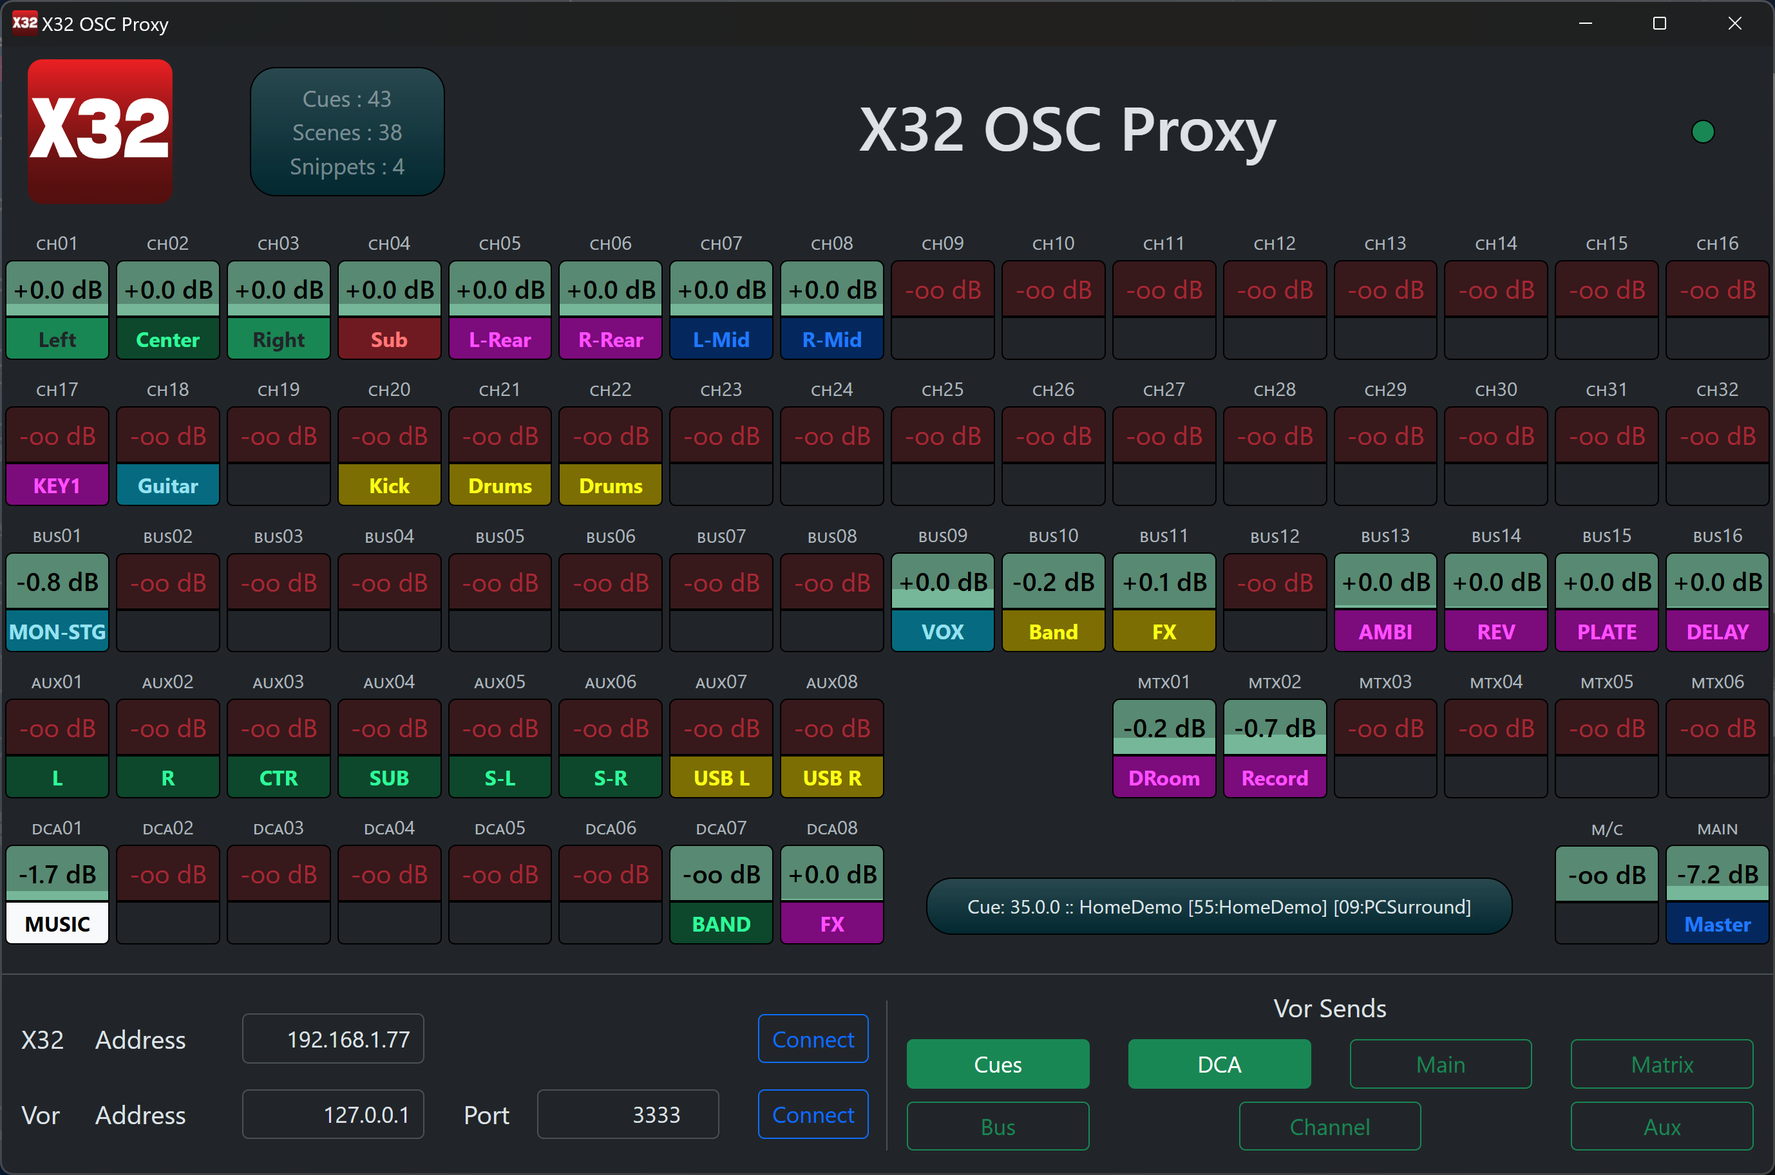
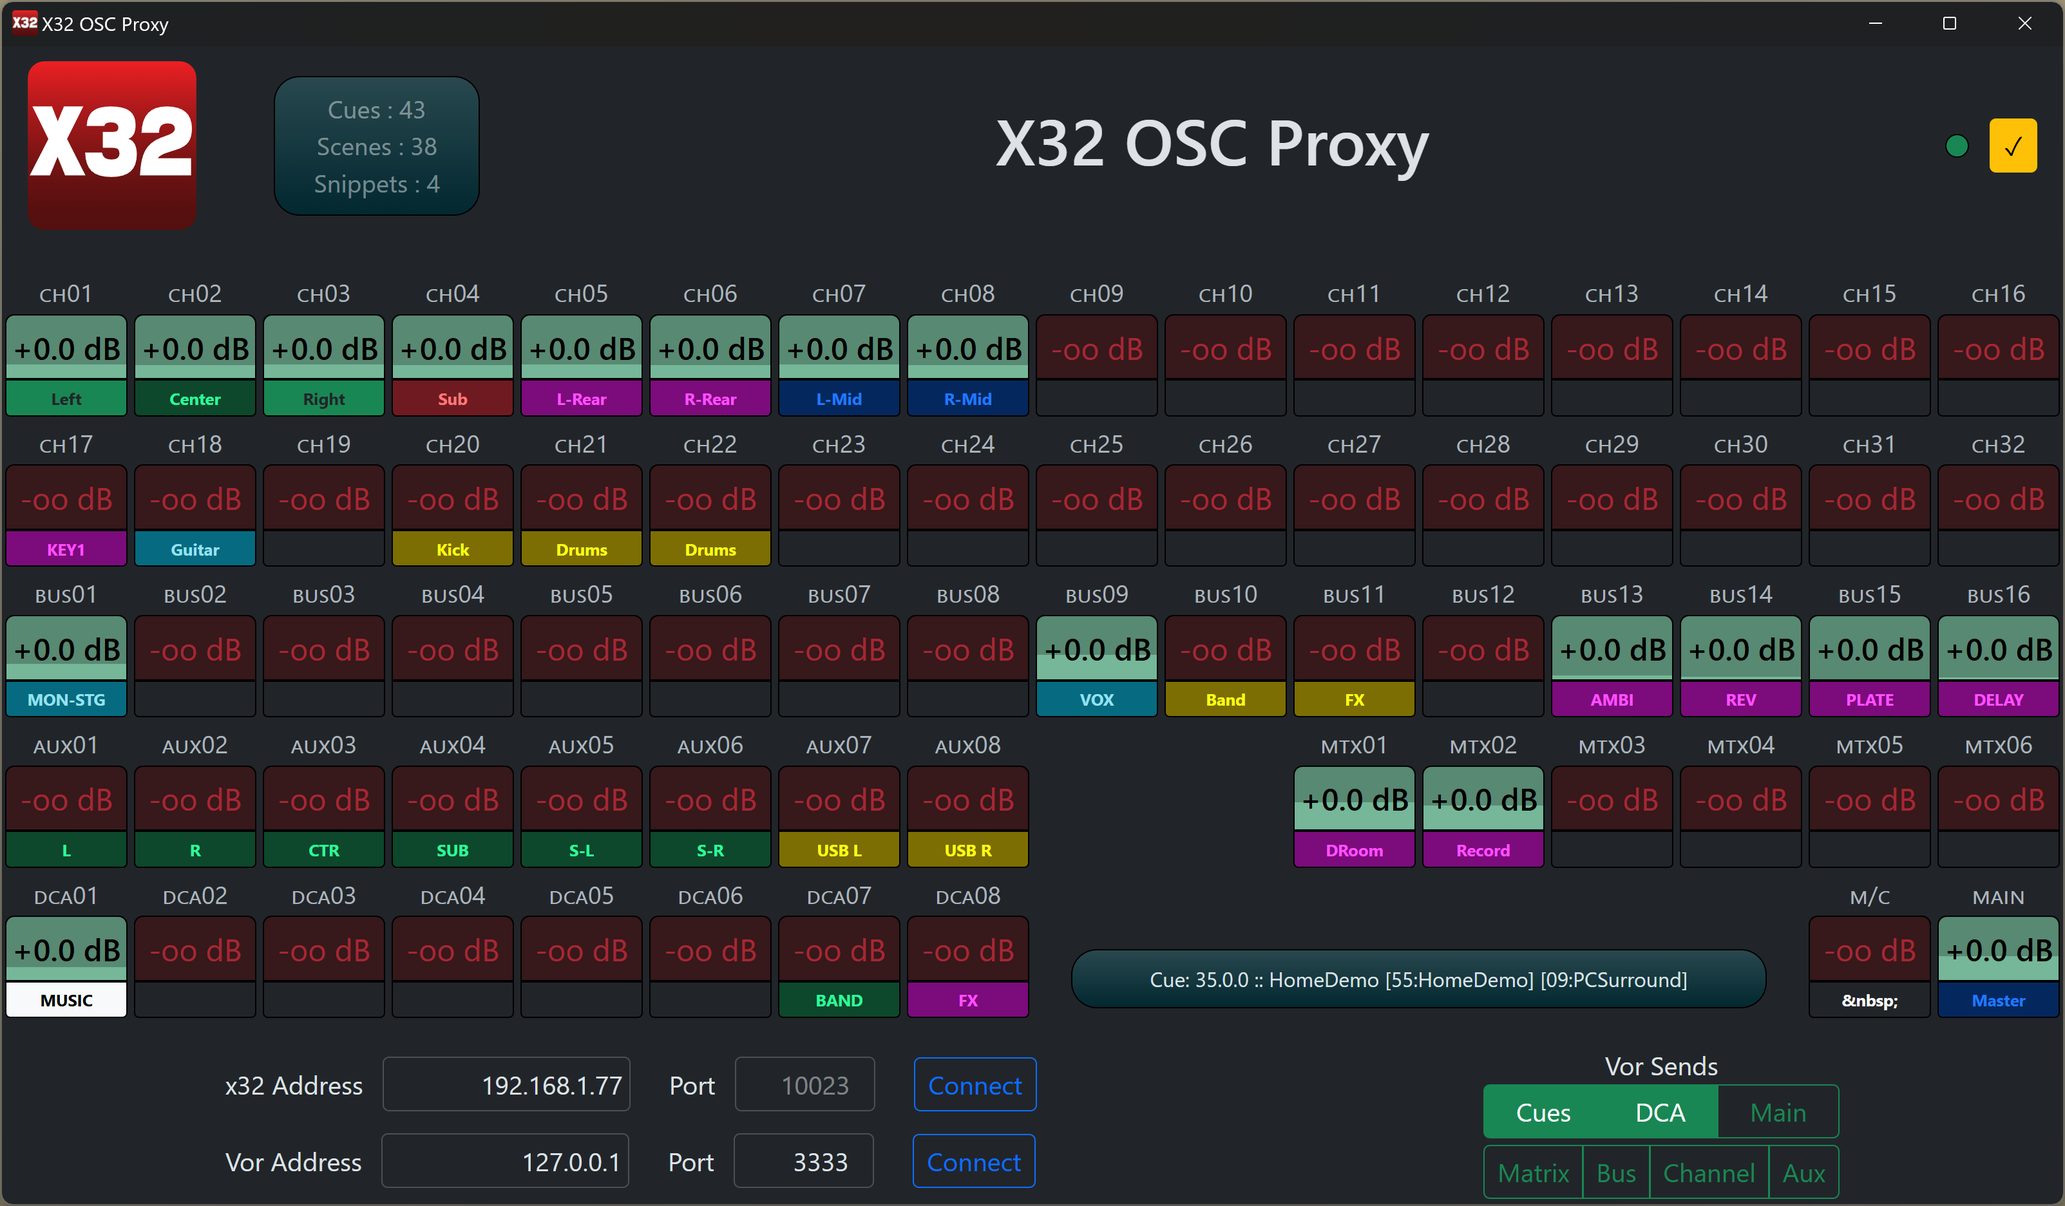
Clean up docs, bump version, fix scaling as best as possible.

diff --git a/src/index.html b/src/index.html
@@ -9,7 +9,7 @@
         <style>
             .fader-name { 
                 text-align: center;
-                font-size: 0.75em;
+                font-size: 1.2vw;
                 font-variant: small-caps;
                 padding-bottom: 2px;
                 color:var(--bs-gray-500);
@@ -29,23 +29,29 @@
             }
             .fader-level {
                 text-align: center;
-                padding-top: .3em;
-                padding-bottom: .3em;
+                padding-top: .4vw;
+                padding-bottom: .4vw;
                 background-color: #492024;
                 color: var(--bs-red);
                 border-top-left-radius: .3em;
                 border-top-right-radius: .3em;
                 border: #000000 1px solid;
+                font-size: 1.5vw;
+                text-wrap: nowrap;
+                /* max-height: 30px; */
             }
             .fader-label { 
                 text-align: center;
-                font-size: 0.8em;
+                font-size: 0.8vw;
                 font-weight: bold;
-                padding: 3px 0px;
+                padding: 3px 3px;
                 border-bottom-left-radius: .3em;
                 border-bottom-right-radius: .3em;
                 border:#000000 1px solid;
-                min-height: 1.65rem;
+                text-overflow: ellipsis;
+                align-content: center;
+                max-width: 6.25vw;
+                overflow: hidden;
             }
             .fader-box[data-is-on="true"] .fader-level {
                 background-color: var(--bs-success-text-emphasis);
@@ -117,34 +123,46 @@
                 color:var(--bs-body-bg);
             }
 
-            #current-cue { font-size: .75em; }
-
+            #current-cue { font-size: 1vw; }
             #status {
-                width: 15px;
-                height: 15px;
+                width: 1.17vw;
+                height: 1.17vw;
                 border-radius: 100%;
                 border:#000000 1px solid;
-                margin-right: 20px;
+                margin-right: 1vw;
             }
             #status[data-last="0"] { background-color: var(--bs-red); }
             #status[data-last="1"] { background-color: var(--bs-yellow); }
             #status[data-last="2"] { background-color: var(--bs-green); }
+
+            #title { font-size: 3.125vw; }
+            #main-icon { width : 8.2vw; }
+            #cue-counts { font-size: 1.2vw; }
+            #title-wrapper { padding-top: .72vw; padding-bottom: .72vw; }
+            #vor, #x32, #vor-sends, #show-audio-label,
+            #vor .btn, #x32 .btn, #vor input, #x32 input, #vor-sends label {
+                font-size: 1.25vw;
+            }
         </style>
     </head>
     <body data-bs-theme="dark">
-        <main class="container-fluid m-0 p-0">
-            <div class="d-flex align-items-center px-3 py-2">
-                <img src="/assets/icon.svg" width="90" class="img-fluid" alt="logo">
-                <div class="text-body-tertiary small border border-black bg-info-subtle bg-gradient py-2 px-4 ms-5 rounded-4 text-center">
+        <main class="container-fluid m-0 p-0 d-flex flex-column vh-100 overflow-hidden">
+            <div id="title-wrapper" class="d-flex align-items-center px-3">
+                <img src="/assets/icon.svg" id="main-icon" class="img-fluid" alt="logo">
+                <div id="cue-counts" title="Stack size on console - this data may lag by up to 5 minutes. You can click connect again to force refresh" class="text-body-tertiary small border border-black bg-info-subtle bg-gradient py-2 px-4 ms-5 rounded-4 text-center">
                     <div>Cues : <span id="cue-count"></span></div>
                     <div>Scenes : <span id="scene-count"></span></div>
                     <div>Snippets : <span id="snippet-count"></span></div>
                 </div>
-                <h1 class="flex-grow-1 text-center">X32 OSC Proxy</h1>
-                <div id="status" data-last="2"></div>
+                <h1 class="flex-grow-1 text-center" id="title">X32 OSC Proxy</h1>
+                <div title="Time since last X32 packet :: Green &lt; 5s, Yellow : &lt; 30s, Red : &gt; 30s" id="status" data-last="2"></div>
+                <div>
+                    <input type="checkbox" class="btn-check" checked id="show-audio">
+                    <label title="Toggle meter overlay - this setting is not saved" class="btn-sm btn btn-outline-warning" id="show-audio-label" for="show-audio">✓</label>
+                </div>
             </div>
 
-            <table class="w-100"><tbody>
+            <div class="flex-grow-1 align-content-center"><table class="w-100"><tbody>
                 <tr>
                     <td class="fader-box" id="chan-1" data-color="Off" data-is-on="false"><div class="d-inline-flex flex-column"><div class="fader-name">ch01</div><div class="fader-level-parent"><div class="fader-level">--</div><div class="fader-level-mask"></div></div><div class="fader-label"></div></div></td>
                     <td class="fader-box" id="chan-2" data-color="Off" data-is-on="false"><div class="d-inline-flex flex-column"><div class="fader-name">ch02</div><div class="fader-level-parent"><div class="fader-level">--</div><div class="fader-level-mask"></div></div><div class="fader-label"></div></div></td>
@@ -227,77 +245,63 @@
                     <td class="fader-box" id="dca-7" data-color="Off" data-is-on="false"><div class="d-inline-flex flex-column"><div class="fader-name">dca07</div><div class="fader-level-parent"><div class="fader-level">--</div><div class="fader-level-mask"></div></div><div class="fader-label"></div></div></td>
                     <td class="fader-box" id="dca-8" data-color="Off" data-is-on="false"><div class="d-inline-flex flex-column"><div class="fader-name">dca08</div><div class="fader-level-parent"><div class="fader-level">--</div><div class="fader-level-mask"></div></div><div class="fader-label"></div></div></td>
 
-                    <td colspan="6" class="align-bottom px-4 pb-2"><div id="current-cue" class="border border-black bg-info-subtle bg-gradient w-100 p-2 rounded-4 text-center"></div></td>
+                    <td colspan="6" class="align-bottom px-4 pb-2"><div id="current-cue" class="border border-black bg-info-subtle bg-gradient w-100 p-2 rounded-4 text-center" title="Current cue - cue name data may lag by up to 5 minutes. You can click connect again to force refresh"></div></td>
 
                     <td class="fader-box" id="main-2" data-color="Off" data-is-on="false"><div class="d-inline-flex flex-column"><div class="fader-name">m/c</div><div class="fader-level-parent"><div class="fader-level">--</div><div class="fader-level-mask"></div></div><div class="fader-label"></div></div></td>
                     <td class="fader-box" id="main-1" data-color="Off" data-is-on="false"><div class="d-inline-flex flex-column"><div class="fader-name">main</div><div class="fader-level-parent"><div class="fader-level">--</div><div class="fader-level-mask"></div></div><div class="fader-label"></div></div></td>
                 </tr>
-            </tbody></table>
+            </tbody></table></div>
 
-            <div class="container-fluid">
-            <div class="row border-top mt-3 pt-3">
-                <div class="col-6 border-end">
-                    <form id="x32">
-                    <div class="row my-2 align-items-center">
-                        <div class="col-1">X32</div>
-                        <div class="col-2">Address</div>
-                        <div class="col-3">
-                            <input id="x32-address" autocomplete="off" placeholder="xxx.xxx.xxx.xxx" type="text" minlength="7" maxlength="15" size="15" pattern="^((\d|[1-9]\d|1\d\d|2[0-4]\d|25[0-5])\.){3}(\d|[1-9]\d|1\d\d|2[0-4]\d|25[0-5])$" class="form-control-sm text-end form-control">
+            <div class="container-fluid align-content-end flex-grow-0">
+            <div class="row justify-content-around pb-1">
+                <div class="col-auto d-flex flex-column justify-content-around">
+                    <form id="x32" class="row align-items-center">
+                        <label for="x32-address" class="col-auto pe-0">x32 Address</label>
+                        <div class="col-auto">
+                            <input id="x32-address" title="IP address in decimal-dot notation" autocomplete="off" placeholder="xxx.xxx.xxx.xxx" type="text" minlength="7" maxlength="15" size="15" pattern="^((\d|[1-9]\d|1\d\d|2[0-4]\d|25[0-5])\.){3}(\d|[1-9]\d|1\d\d|2[0-4]\d|25[0-5])$" class="px-1 form-control-sm text-end form-control">
                         </div>
-                        <div class="offset-4 col-1">
-                            <button type="submit" id="x32-connect" class="btn-sm btn btn-outline-primary">Connect</button>
+                        <label for="x32-port" class="col-auto pe-0">Port</label>
+                        <div class="col-auto">
+                            <input id="x32-port" autocomplete="off" type="number" value="10023" min="1024" max="65535" readonly class="text-body-tertiary disabled form-control-sm text-end form-control px-0">
                         </div>
-                    </div>
+                        <div class="col-auto ">
+                            <button type="submit" title="Connect or reconnect to console - resets all data" id="x32-connect" class="btn-sm btn btn-outline-primary">Connect</button>
+                        </div>
                     </form>
-                    <form id="vor">
-                    <div class="row mt-3 align-items-center">
-                        <div class="col-1">Vor</div>
-                        <div class="col-2">Address</div>
-                        <div class="col-3">
-                            <input id="vor-address" autocomplete="off" placeholder="xxx.xxx.xxx.xxx" type="text" minlength="7" maxlength="15" size="15" pattern="^((\d|[1-9]\d|1\d\d|2[0-4]\d|25[0-5])\.){3}(\d|[1-9]\d|1\d\d|2[0-4]\d|25[0-5])$" class="form-control-sm text-end form-control">
+                    <form id="vor" class="row align-items-center">
+                        <label for="vor-address" class="col-auto pe-0">Vor Address</label>
+                        <div class="col-auto">
+                            <input id="vor-address" title="IP address in decimal-dot notation" autocomplete="off" placeholder="xxx.xxx.xxx.xxx" type="text" minlength="7" maxlength="15" size="15" pattern="^((\d|[1-9]\d|1\d\d|2[0-4]\d|25[0-5])\.){3}(\d|[1-9]\d|1\d\d|2[0-4]\d|25[0-5])$" class="px-1 form-control-sm text-end form-control">
                         </div>
-                        <div class="col-1">Port</div>
-                        <div class="col-3">
-                            <input id="vor-port" autocomplete="off" type="number" min="1024" max="65535" class="form-control-sm text-end form-control">
+                        <label for="vor-port" class="col-auto pe-0">Port</label>
+                        <div class="col-auto">
+                            <input id="vor-port" title="Port number, 1024-655235" autocomplete="off" type="number" min="1024" max="65535" class="form-control-sm text-end form-control px-0">
                         </div>
-                        <div class="col-1">
-                            <button type="submit" id="vor-connect" class="btn-sm btn btn-outline-primary">Connect</button>
+                        <div class="col-auto ">
+                            <button type="submit" title="Connect to Vor instance" id="vor-connect" class="btn-sm btn btn-outline-primary">Connect</button>
                         </div>
-                    </div>
                     </form>
                 </div>
-                <div class="col-6">
-                    <div class="row justify-content-between gy-2">
-                        <div class="col-12 pt-0 mt-0 text-center">Vor Sends</div>
-                        <div class="col-3">
-                            <input type="checkbox" class="btn-check" id="send-cue">
-                            <label class="btn-sm w-100 btn btn-outline-success" for="send-cue">Cues</label>
-                        </div>
-                        <div class="col-3">
-                            <input type="checkbox" class="btn-check" id="send-dca">
-                            <label class="btn-sm w-100 btn btn-outline-success" for="send-dca">DCA</label>
-                        </div>
-                        <div class="col-3">
-                            <input type="checkbox" class="btn-check" id="send-main">
-                            <label class="btn-sm w-100 btn btn-outline-success" for="send-main">Main</label>
-                        </div>
-                        <div class="col-3">
-                            <input type="checkbox" class="btn-check" id="send-matrix">
-                            <label class="btn-sm w-100 btn btn-outline-success" for="send-matrix">Matrix</label>
-                        </div>
-                        <div class="col-3">
-                            <input type="checkbox" class="btn-check" id="send-bus">
-                            <label class="btn-sm w-100 btn btn-outline-success" for="send-bus">Bus</label>
-                        </div>
-                        <div class="col-3">
-                            <input type="checkbox" class="btn-check" id="send-channel">
-                            <label class="btn-sm w-100 btn btn-outline-success" for="send-channel">Channel</label>
-                        </div>
-                        <div class="col-3">
-                            <input type="checkbox" class="btn-check" id="send-aux">
-                            <label class="btn-sm w-100 btn btn-outline-success" for="send-aux">Aux</label>
-                        </div>
-                    </div>
+                <div class="col-auto" id="vor-sends">
+                    <div class="row text-center"><div class="col-12">Vor Sends</div></div>
+                    <div class="row pb-1"><div class="btn-group">
+                        <input type="checkbox" class="btn-check" id="send-cue">
+                        <label title="Send '/currentCue [string]'" class="btn-sm btn btn-outline-success" for="send-cue">Cues</label>
+                        <input type="checkbox" class="btn-check" id="send-dca">
+                        <label title="Send '/dca[1..8] [string]'" class="btn-sm btn btn-outline-success" for="send-dca">DCA</label>
+                        <input type="checkbox" class="btn-check" id="send-main">
+                        <label title="Send '/main[1..2] [string]'" class="btn-sm btn btn-outline-success" for="send-main">Main</label>
+                    </div></div>
+                    <div class="row"><div class="btn-group">
+                        <input type="checkbox" class="btn-check" id="send-matrix">
+                        <label title="Send '/matrix[1..6] [string]'" class="btn-sm btn btn-outline-success" for="send-matrix">Matrix</label>
+                        <input type="checkbox" class="btn-check" id="send-bus">
+                        <label title="Send '/bus[1..16] [string]'" class="btn-sm btn btn-outline-success" for="send-bus">Bus</label>
+                        <input type="checkbox" class="btn-check" id="send-channel">
+                        <label title="Send '/channel[1..24] [string]'" class="btn-sm btn btn-outline-success" for="send-channel">Channel</label>
+                        <input type="checkbox" class="btn-check" id="send-aux">
+                        <label title="Send '/auxin[1..8] [string]'" class="btn-sm btn btn-outline-success" for="send-aux">Aux</label>
+                    </div></div>
                 </div>
             </div>
             </div>

diff --git a/src/main.js b/src/main.js
@@ -23,6 +23,8 @@
 const { invoke } = window.__TAURI__.core;
 const { listen } = window.__TAURI__.event;
 
+let show_meters = true;
+
 window.addEventListener("DOMContentLoaded", () => {
     populate_settings()
 
@@ -40,6 +42,10 @@ window.addEventListener("DOMContentLoaded", () => {
     document.getElementById('send-bus').addEventListener('change', (e) => { set_flag('bus') })
     document.getElementById('send-aux').addEventListener('change', (e) => { set_flag('aux') })
     document.getElementById('send-channel').addEventListener('change', (e) => { set_flag('channel') })
+
+    document.getElementById('show-audio').addEventListener('change', (e) => {
+        show_meters = e.target.checked;
+    })
 });
 
 async function set_flag(flag) {
@@ -85,7 +91,9 @@ const meters_0 = await listen('meter-update-0', (event) => {
     // 49-64 - bus
     // 65-70 - mtx
     if ( Array.isArray(event.payload) ) {
-        for (const [i, v] of event.payload.entries()) {
+        let this_data = show_meters ? event.payload : Array(71).fill(1)
+
+        for (const [i, v] of this_data.entries()) {
             if ( i == 0 || ( i >= 41 && i <= 48 )) { continue }
 
             // check against last.
@@ -117,7 +125,9 @@ const meters_5 = await listen('meter-update-5', (event) => {
     // 25-26 - main l/r
     // 27 - mono
     if ( Array.isArray(event.payload) ) {
-        for (const [i, v] of event.payload.entries()) {
+        let this_data = show_meters ? event.payload : Array(28).fill(1)
+
+        for (const [i, v] of this_data.entries()) {
             if ( i <= 16 || i == 26 ) { continue }
 
             // check against last.
@@ -188,7 +198,7 @@ function update_fader(name, data) {
 function update_fader_by_id(id, data) {
     const element = document.getElementById(id);
     if (element !== null) {
-        element.querySelector('.fader-label').textContent = data.label
+        element.querySelector('.fader-label').textContent = data.label === "" ? "&nbsp;" : data.label
         element.querySelector('.fader-level').textContent = data.level
         element.setAttribute("data-is-on", data.is_on ? "true" : "false")
         element.setAttribute("data-color", data.color)

diff --git a/src-tauri/src/lib.rs b/src-tauri/src/lib.rs
@@ -119,8 +119,8 @@ pub fn run() {
                         let time = handle.state::<Mutex<SystemTime>>();
                         let elapsed = time.lock().expect("lock failed").elapsed().expect("bad clock");
                         handle.emit("packet_status", match elapsed.as_secs() {
-                            0..7 => 2_usize,
-                            7..=30 => 1_usize,
+                            0..6 => 2_usize,
+                            6..=30 => 1_usize,
                             _ => 0_usize
                         }).unwrap();
                     }

diff --git a/README.md b/README.md
@@ -45,7 +45,31 @@ Messages are sent as a single OSC Message for cue, and a OSC Bundle for each of 
 
 ## In Action
 
-![animated webp](screenshot/animated.webp)
+![animated webp](screenshot/animated.gif)
+
+_Possible Gotcha:_ Note the audio level displayed is a __visualization__ based on a simple exponential expression of the linear audio level - specifically `f(x) = ( x ^ 0.35 ) / 100` - I tried several methods to convert it to decibels and then a percentage, and was unhappy with the visualization, particularly on low level signals - this method amplifies movement on the low end of the scale, pretty much the opposite of how our ears work.  All of that said, this is an effective signal visualization, and should not be interpreted as a volume level.
+
+## Vor Configuration
+
+Add a [Custom OSC](https://docs.getvor.app/vor/settings/connections/show-control/custom-osc) connection of type UDP.  Note that the configuration shown is from Vor version 1.6 or so, some options may look different.
+
+![Options Window](screenshot/vor_connect.png)
+
+By default, we uses port 3333, but you can use whatever you want.
+
+### Add VOR addresses
+
+Add any of the available address endpoints. Note that the fader index is not zero padded like it is on the X32 end - so `/channel/1`, not `/channel/01`
+
+### Setup Layout
+
+Example shown for current cue - all other endpoints follow the same pattern.
+
+![vor layout](screenshot/vor_cue.png)
+
+## Console Coverage
+
+Both the X32 and M32 should work fine, with all their variants.  I have a full size X32, no other products have been tested with this. From my reading, I am quite positive this will not work with the Wing or X-Air line of consoles.
 
 ## License
 
